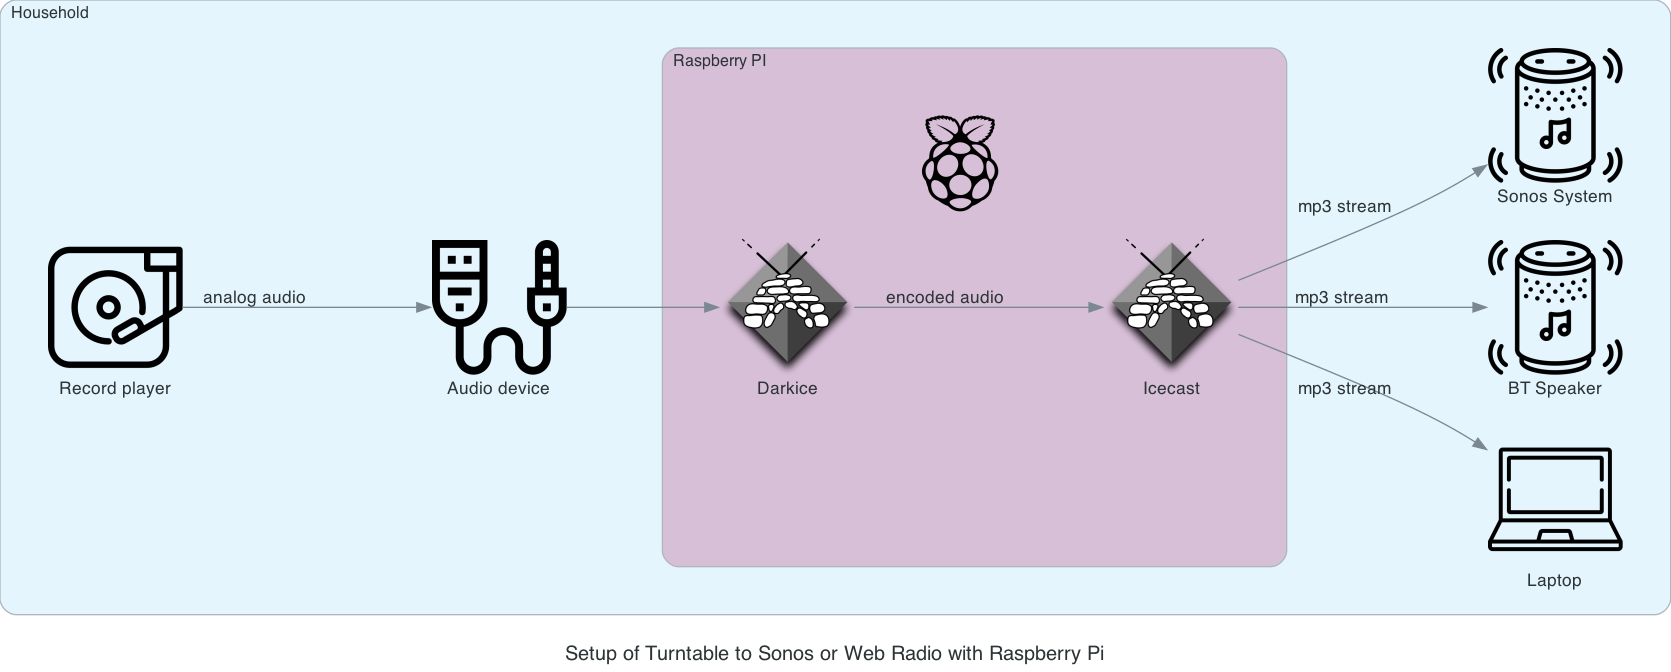
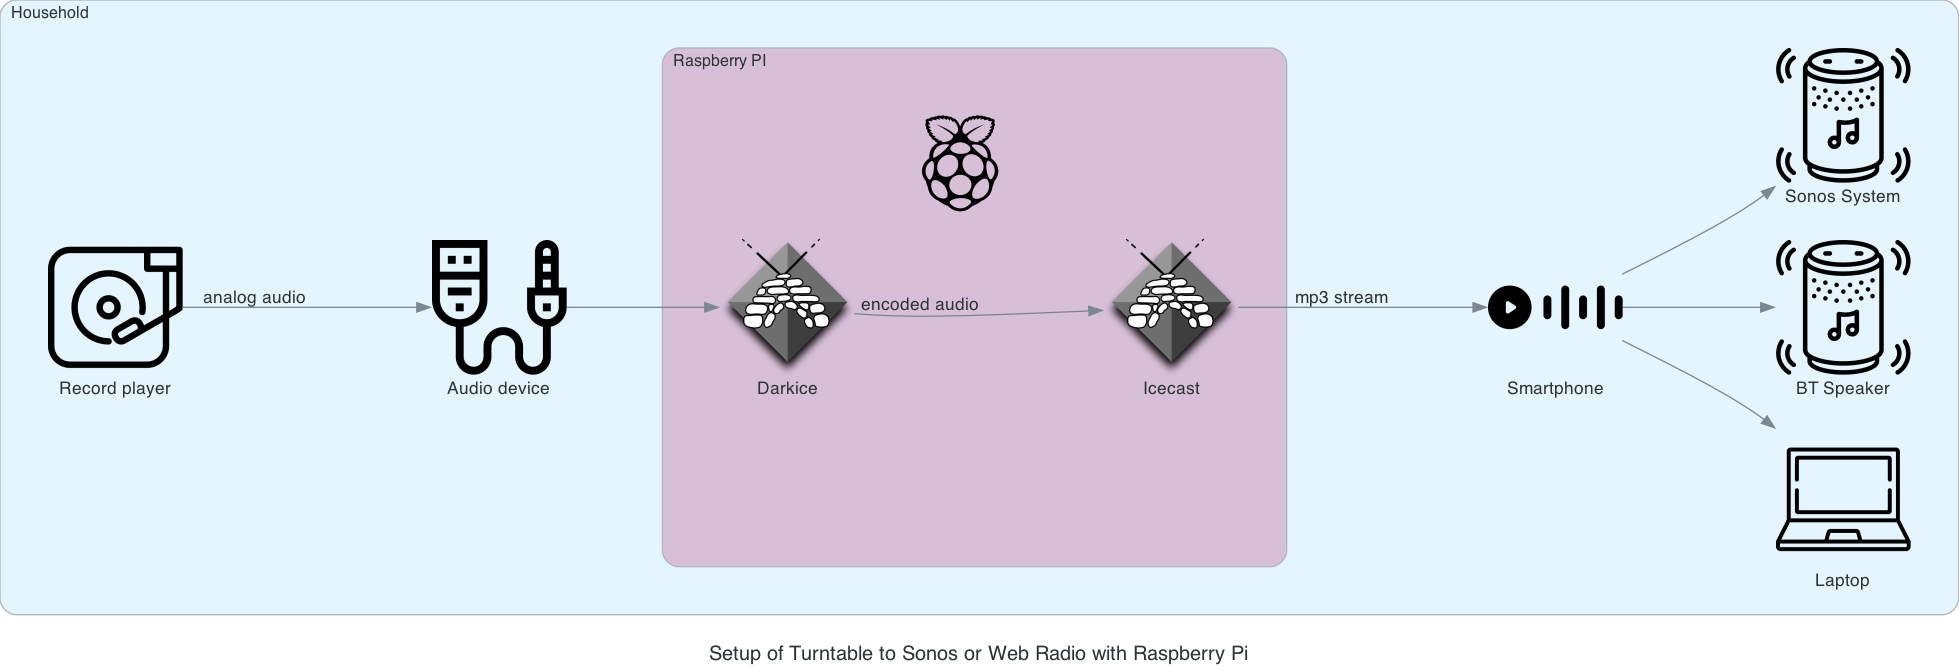
added architecture overview

diff --git a/docs/diagrams/architecture.py b/docs/diagrams/architecture.py
@@ -11,12 +11,13 @@ with Diagram('\nSetup of Turntable to Sonos or Web Radio with Raspberry Pi', sho
   
   with Cluster("Household"):
     Node("", shape="plaintext", pin="true", pos="0.5,0.5")
-    Node("", shape="plaintext", pin="true", pos="16.5,5.5")
+    Node("", shape="plaintext", pin="true", pos="19.5,5.5")
     record_player = Custom("Record player", "./png/schallplattenspieler.png", pin="true", pos="1,3")
-    audio_device = Custom("Audio device", "./png/usb.png",  pin="true", pos="5,3")
-    sonos = Custom("Sonos System", "./png/speaker.png", pin="true", pos="16,5")
-    speaker = Custom("BT Speaker", "./png/speaker.png", pin="true", pos="16,3")
-    laptop = Custom("Laptop", "./png/laptop.png", pin="true", pos="16,1")
+    audio_device = Custom("Audio device", "./png/usb.png", pin="true", pos="5,3")
+    audio = Custom("Smartphone", "./png/audio.png", pin="true", pos="16,3")
+    sonos = Custom("Sonos System", "./png/speaker.png", pin="true", pos="19,5")
+    speaker = Custom("BT Speaker", "./png/speaker.png", pin="true", pos="19,3")
+    laptop = Custom("Laptop", "./png/laptop.png", pin="true", pos="19,1")
 
   with Cluster("Raspberry PI", graph_attr={"bgcolor": "thistle"}):
     Node("", shape="plaintext", pin="true", pos="7.4,5")
@@ -33,4 +34,6 @@ with Diagram('\nSetup of Turntable to Sonos or Web Radio with Raspberry Pi', sho
   # Edge(headlabel="analog audio signal", labelangle="0", labeldistance="14", constraint="False") >> audio_device
   audio_device >> darkice
   darkice >>  Edge(label="encoded audio") >> icecast
-  icecast >> Edge(label="mp3 stream") >> [sonos, laptop, speaker]
+  icecast >> Edge(label="mp3 stream") >> audio
+  audio >> [sonos, laptop, speaker]
+  
